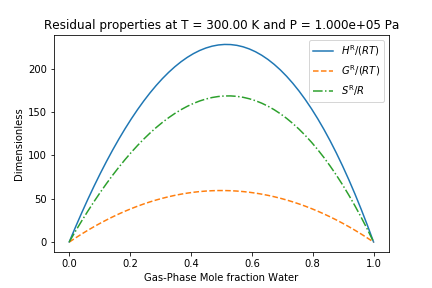
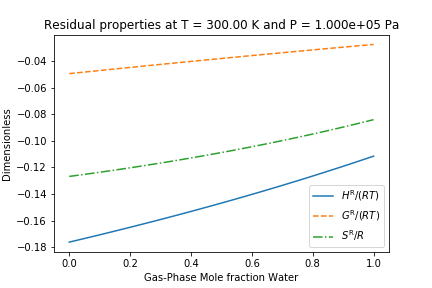
Fix sign error in binary second virial.py
- add test to confirm correct

diff --git a/scithermo/eos/virial.py b/scithermo/eos/virial.py
@@ -43,6 +43,12 @@ class Virial:
             self.B0_expr(T_r) + w*self.B1_expr(T_r)
         )
 
+    def ln_hat_phi_i_expr(self, *args):
+        raise NotImplementedError
+
+    def hat_phi_i_expr(self, *args):
+        return self.exp(self.ln_hat_phi_i_expr(*args))
+
 
 class SecondVirial(CriticalConstants, Virial):
     """Virial equation of state for one component. See :cite:`Perry,Smith2005`
@@ -105,6 +111,9 @@ class SecondVirial(CriticalConstants, Virial):
     def ln_hat_phi_i_expr(self, P, T):
         r"""logarithm of fugacity coefficient
 
+        .. note::
+            single-component version
+
         .. math::
             \ln\hat{\phi}_i = \frac{PB}{RT}
 
@@ -115,9 +124,6 @@ class SecondVirial(CriticalConstants, Virial):
         """
         T_r = T / self.T_c
         return P*self.B_expr(T_r, self.w, self.T_c, self.P_c)/self.R/T
-
-    def hat_phi_i_expr(self, *args):
-        return self.log(self.ln_hat_phi_i_expr(*args))
 
     def calc_Z_from_units(self, P, T):
         return 1. + self.B_expr(T/self.T_c, self.w, self.T_c, self.P_c)*P/self.R/T
@@ -159,7 +165,7 @@ class BinarySecondVirial(CriticalConstants, Virial):
     .. math::
         \begin{align}
             w_{ij} &= \frac{w_i + w_j}{2} \\
-            T_{\mathrm{c},ij} &= \sqrt{T_{\mathrm{c},c1}T_{\mathrm{c},c2}}(1-k_{ij}) :label:eq_Tcij\\
+            T_{\mathrm{c},ij} &= \sqrt{T_{\mathrm{c},i}T_{\mathrm{c},j}}(1-k_{ij}) :label:eq_Tcij\\
             P_{\mathrm{c},ij} &= \frac{Z_{\mathrm{c},ij}RT_{\mathrm{c},ij}}{V_{\mathrm{c},ij}} \\
         \end{align}
 
@@ -167,11 +173,11 @@ class BinarySecondVirial(CriticalConstants, Virial):
 
     .. math::
         \begin{align}
-            Z_{\mathrm{c},ij} &= \frac{Z_{\mathrm{c},c1} + Z_{\mathrm{c},c2}}{2} \\\
-            V_{\mathrm{c},ij} &= \left(\frac{V_{\mathrm{c},c1}^{1/3} + V_{\mathrm{c},c2}^{1/3}}{2}\right)^{3}
+            Z_{\mathrm{c},ij} &= \frac{Z_{\mathrm{c},i} + Z_{\mathrm{c},j}}{2} \\\
+            V_{\mathrm{c},ij} &= \left(\frac{V_{\mathrm{c},i}^{1/3} + V_{\mathrm{c},j}^{1/3}}{2}\right)^{3}
         \end{align}
 
-    :param k_ij: equation of state mixing rule in calculation of critical temperautre, see Equation :eq:`eq_Tcij`. When :math:`c1=c2` and for chemical similar species, :math:`k_{ij}=0`. Otherwise, it is a small (usually) positive number evaluated from minimal :math:`PVT` data or, in the absence of data, set equal to zero.
+    :param k_ij: equation of state mixing rule in calculation of critical temperautre, see Equation :eq:`eq_Tcij`. When :math:`i=j` and for chemical similar species, :math:`k_{ij}=0`. Otherwise, it is a small (usually) positive number evaluated from minimal :math:`PVT` data or, in the absence of data, set equal to zero.
     :type k_ij: float
     :param cas_pairs: pairs of cas registry numbers, derived from cas_numbers calculated
     :type cas_pairs: list(tuple(str))
@@ -191,22 +197,22 @@ class BinarySecondVirial(CriticalConstants, Virial):
             i_kwargs = {}
         if j_kwargs is None:
             j_kwargs = {}
-        self.c1 = CriticalConstants(**i_kwargs)
-        self.c2 = CriticalConstants(**j_kwargs)
+        self.i = CriticalConstants(**i_kwargs)
+        self.j = CriticalConstants(**j_kwargs)
         Virial.__init__(self, pow)
-        assert self.c1.cas_number != self.c2.cas_number, 'Errors anticipated when cas numbers are equal if other properties are not'
+        assert self.i.cas_number != self.j.cas_number, 'Errors anticipated when cas numbers are equal if other properties are not'
 
         self.k_ij = k_ij
-        self.w_ij = (self.c1.w + self.c2.w) / 2.
-        self.T_c_ij = pow(self.c1.T_c * self.c2.T_c, 0.5) * (1. - self.k_ij)
-        self.Z_c_ij = (self.c1.Z_c + self.c2.Z_c) / 2.
+        self.w_ij = (self.i.w + self.j.w) / 2.
+        self.T_c_ij = pow(self.i.T_c * self.j.T_c, 0.5) * (1. - self.k_ij)
+        self.Z_c_ij = (self.i.Z_c + self.j.Z_c) / 2.
         self.V_c_ij = pow(
-            (pow(self.c1.V_c, 1 / 3) + pow(self.c2.V_c, 1 / 3)) / 2., 3
+            (pow(self.i.V_c, 1 / 3) + pow(self.j.V_c, 1 / 3)) / 2., 3
         )
         self.P_c_ij = self.Z_c_ij*self.R*self.T_c_ij/self.V_c_ij
         self.other_cas = {
-            self.c1.cas_number: self.c2.cas_number,
-            self.c2.cas_number: self.c1.cas_number,
+            self.i.cas_number: self.j.cas_number,
+            self.j.cas_number: self.i.cas_number,
         }
         self.cas_pairs = []
         for x in self.other_cas.keys():
@@ -214,23 +220,23 @@ class BinarySecondVirial(CriticalConstants, Virial):
                 self.cas_pairs.append((x, y))
 
     def get_w_Tc_Pc(self, cas_i, cas_j=None):
-        """Returns critical constants for calculation based off of whetner c1 = c2 or not
+        """Returns critical constants for calculation based off of whetner i = j or not
 
         :returns: (:math:`w`, :math:`T_c`, :math:`P_c`)
         :rtype: tuple
         """
-        if cas_i == self.c1.cas_number and (cas_i == cas_j or cas_j is None):
-            return self.c1.w, self.c1.T_c, self.c1.P_c
-        if cas_i == self.c2.cas_number and (cas_i == cas_j or cas_j is None):
-            return self.c2.w, self.c2.T_c, self.c2.P_c
+        if cas_i == self.i.cas_number and (cas_i == cas_j or cas_j is None):
+            return self.i.w, self.i.T_c, self.i.P_c
+        if cas_i == self.j.cas_number and (cas_i == cas_j or cas_j is None):
+            return self.j.w, self.j.T_c, self.j.P_c
         if cas_i == self.other_cas[cas_j]:
             return self.w_ij, self.T_c_ij, self.P_c_ij
 
     def B_ij_expr(self, cas_1, cas_2, T):
         r"""
-        Returns :math:`B_{ij}` considering that :code:`c1=c2` or :code:`c1!=c2`
+        Returns :math:`B_{ij}` considering that :code:`i=j` or :code:`i!=j`
 
-        If :code:`c1=c2`, find the component :math:`k` for which :code:`k=c1=c2` (all cas no's equal).
+        If :code:`i=j`, find the component :math:`k` for which :code:`k=i=j` (all cas no's equal).
         Then return :math:`B_{kk}` where
 
         .. math::
@@ -238,7 +244,7 @@ class BinarySecondVirial(CriticalConstants, Virial):
             B^0\left(\frac{T}{T_{\mathrm{c},k}}\right) + \omega_k\left(\frac{T}{T_{\mathrm{c},k}}\right)
             \right]
 
-        Otherwise, if :code:`c1!=c2`, return :math:`B_{ij}`, where
+        Otherwise, if :code:`i!=j`, return :math:`B_{ij}`, where
 
         .. math::
             B_{ij}=\frac{RT_{\mathrm{c},ij}}{P_{\mathrm{c},ij}}\left[
@@ -291,9 +297,9 @@ class BinarySecondVirial(CriticalConstants, Virial):
         :param T: temperature [K]
         :return: :math:`\\delta_{ij}` [m**3/mol]
         """
-        return 2.*self.B_ij_expr(self.c1.cas_number, self.c2.cas_number, T) \
-                - self.B_ij_expr(self.c1.cas_number, self.c1.cas_number, T) \
-                - self.B_ij_expr(self.c2.cas_number, self.c2.cas_number, T)
+        return 2.*self.B_ij_expr(self.i.cas_number, self.j.cas_number, T) \
+                - self.B_ij_expr(self.i.cas_number, self.i.cas_number, T) \
+                - self.B_ij_expr(self.j.cas_number, self.j.cas_number, T)
 
     def ln_hat_phi_i_expr(self, cas_i, y_i, P, T):
         r"""logarithm of fugacity coefficient
@@ -316,9 +322,6 @@ class BinarySecondVirial(CriticalConstants, Virial):
                 self.B_ij_expr(cas_i, cas_i, T) - (1.-y_i)*(1.-y_i)*self.d_ij_expr(T)
         )/self.R/T
 
-    def hat_phi_i_expr(self, *args):
-        return self.exp(self.ln_hat_phi_i_expr(*args))
-
     def fugacity_i_expr(self, cas_i, y_i, P, T):
         r"""Fugacity of component i in mixture :math:`f_i=\hat{\phi}_i y_i P`
 
@@ -334,7 +337,7 @@ class BinarySecondVirial(CriticalConstants, Virial):
         return self.hat_phi_i_expr(cas_i, y_i, P, T) * y_i * P
 
     def bar_GiR_RT(self, *args):
-        r"""Dimensionless residual partial molar free energy of component :math:`c1`
+        r"""Dimensionless residual partial molar free energy of component :math:`i`
 
         .. math::
             \frac{\bar{G}^\mathrm{R}_i}{RT} = \ln\hat{\phi}_i
@@ -356,12 +359,46 @@ class BinarySecondVirial(CriticalConstants, Virial):
 
         :param T: temperature [K]
         """
-        return 2.*self.d_Bij_d_Tr(self.c1.cas_number, self.c2.cas_number, T) \
-               - self.d_Bij_d_Tr(self.c1.cas_number, self.c1.cas_number, T) \
-               - self.d_Bij_d_Tr(self.c2.cas_number, self.c2.cas_number, T)
+        return 2.*self.d_Bij_d_Tr(self.i.cas_number, self.j.cas_number, T) \
+               - self.d_Bij_d_Tr(self.i.cas_number, self.i.cas_number, T) \
+               - self.d_Bij_d_Tr(self.j.cas_number, self.j.cas_number, T)
+
+    def Tstar_d_lnphi_dTstar(self, cas_i, y_i, P, T):
+        r"""Returns
+
+        .. math::
+            \begin{align}
+                T^\star \frac{\partial \ln{\hat{\phi}_i}}{\partial T^\star}
+                    &=  \frac{T T_\text{ref}}{T_\text{ref}}\frac{\partial \ln{\hat{\phi}_i}}{\partial T}
+                    = \frac{T}{T_\text{c}}\frac{\partial \ln{\hat{\phi}_i}}{\partial T_\text{r}} \\
+                &= \frac{T}{T_\text{c}}\left[
+                                        \frac{P}{RT}\left(
+                                            \frac{\partial B_{ii}}{\partial T_r} + (1-y_i)^2\frac{\partial \delta_{ij}}{\partial T_r}
+                                            \right)
+                                        - \frac{T_c\ln\hat{\phi}_i}{T}
+                \right] \\
+                &= \frac{P}{R T_\text{c}}\left(
+                                            \frac{\partial B_{ii}}{\partial T_r} + (1-y_i)^2\frac{\partial \delta_{ij}}{\partial T_r}
+                                            \right)
+                                        - \ln\hat{\phi}_i \\
+                &= -\frac{\bar{H}_i^\text{R}}{RT}
+            \end{align}
+
+        where :math:`\frac{\partial \delta_{ij}}{\partial T_r}` is given by :eq:`eq_d_dij`
+
+        :param cas_i: cas number for component of interest
+        :type cas_i: str
+        :param y_i: mole fraction of component of interest
+        :type y_i: float
+        :param P: pressure in Pa
+        :type P: float
+        :param T: temperature in K
+        :type T: float
+        """
+        return -self.bar_HiR_RT(cas_i, y_i, P, T)
 
     def bar_HiR_RT(self, cas_i, y_i, P, T):
-        r"""Dimensionless residual partial molar enthalpy of component :math:`c1`
+        r"""Dimensionless residual partial molar enthalpy of component :math:`i`
 
         .. math::
             \begin{align}
@@ -379,7 +416,7 @@ class BinarySecondVirial(CriticalConstants, Virial):
         so that we obtain
 
         .. math::
-            \frac{\bar{H}^\mathrm{R}_i}{RT} = \frac{P}{RT_c}\left[
+            \frac{\bar{H}^\mathrm{R}_i}{RT} = -\frac{P}{RT_c}\left[
                         \frac{\partial B_{ii}}{\partial T_r} + (1-y_i)^2\frac{\partial \delta_{ij}}{\partial T_r}
                                             \right]
                                         + \ln\hat{\phi}_i
@@ -395,10 +432,10 @@ class BinarySecondVirial(CriticalConstants, Virial):
         :type T: float
         """
         w, T_c, P_c = self.get_w_Tc_Pc(cas_i)
-        return P/self.R/T_c*(self.d_Bij_d_Tr(cas_i, cas_i, T) + (1.-y_i)*(1.-y_i)*self.d_dij_d_Tr(T)) + self.ln_hat_phi_i_expr(cas_i, y_i, P, T)
+        return -P/self.R/T_c*(self.d_Bij_d_Tr(cas_i, cas_i, T) + (1.-y_i)*(1.-y_i)*self.d_dij_d_Tr(T)) + self.ln_hat_phi_i_expr(cas_i, y_i, P, T)
 
     def bar_SiR_R(self, cas_i, y_i, P, T):
-        r"""Dimensionless residual partial molar entropy of component :math:`c1`
+        r"""Dimensionless residual partial molar entropy of component :math:`i`
 
         Since
 
@@ -416,7 +453,7 @@ class BinarySecondVirial(CriticalConstants, Virial):
         By comparing Equation :eq:`eq_GiR` and :eq:`eq_HiR` it is observed that
 
         .. math::
-            \frac{\bar{S}_i^\mathrm{R}}{R} = \frac{P}{RT_c}\left[
+            \frac{\bar{S}_i^\mathrm{R}}{R} = -\frac{P}{RT_c}\left[
                         \frac{\partial B_{ii}}{\partial T_r} + (1-y_i)^2\frac{\partial \delta_{ij}}{\partial T_r}
                                             \right]
 
@@ -432,7 +469,7 @@ class BinarySecondVirial(CriticalConstants, Virial):
         :type T: float
         """
         w, T_c, P_c = self.get_w_Tc_Pc(cas_i)
-        return P/self.R/T_c*(
+        return -P/self.R/T_c*(
             self.d_Bij_d_Tr(cas_i, cas_i, T) + (1.-y_i)*(1.-y_i)*self.d_dij_d_Tr(T)
         )
 
@@ -469,7 +506,7 @@ class BinarySecondVirial(CriticalConstants, Virial):
         y_j = 1.-y_i
         cas_j = self.other_cas[cas_i]
         return (
-                y_i*method(cas_i, y_i, P, T) + (1.-y_i)*method(cas_j, y_j, P, T)
+                y_i*method(cas_i, y_i, P, T) + y_j*method(cas_j, y_j, P, T)
         )
 
     def S_R_R(self, *args):
@@ -489,12 +526,12 @@ class BinarySecondVirial(CriticalConstants, Virial):
             fig = plt.figure()
             ax = fig.add_subplot(111)
             ax.set_ylabel('Dimensionless')
-            ax.set_xlabel('Gas-Phase Mole fraction %s' % self.c1.compound_name)
+            ax.set_xlabel('Gas-Phase Mole fraction %s' % self.i.compound_name)
 
         y_1 = np.linspace(0., 1.)
-        HR_RT = np.array(list(self.H_R_RT(self.c1.cas_number, i, P, T) for i in y_1))
-        GR_RT = np.array(list(self.G_R_RT(self.c1.cas_number, i, P, T) for i in y_1))
-        SR_R = np.array(list(self.S_R_R(self.c1.cas_number, i, P, T) for i in y_1))
+        HR_RT = np.array(list(self.H_R_RT(self.i.cas_number, i, P, T) for i in y_1))
+        GR_RT = np.array(list(self.G_R_RT(self.i.cas_number, i, P, T) for i in y_1))
+        SR_R = np.array(list(self.S_R_R(self.i.cas_number, i, P, T) for i in y_1))
         ax.plot(y_1, HR_RT, '-', label='$H^\\mathrm{R}/(RT)$')
         ax.plot(y_1, GR_RT, '--', label='$G^\\mathrm{R}/(RT)$')
         ax.plot(y_1, SR_R, '-.', label='$S^\\mathrm{R}/R$')

diff --git a/tests/test_residual_properties.py b/tests/test_residual_properties.py
@@ -1,28 +1,58 @@
 import unittest
 
 from scithermo.eos.cubic import PengRobinson, RedlichKwong, SoaveRedlichKwong
-from scithermo.eos.virial import SecondVirial
+from scithermo.eos.virial import SecondVirial, BinarySecondVirial
 from .test_cp_ig import compounds_to_test
 
 
 class MyTestCase(unittest.TestCase):
 
     def setUp(self) -> None:
-        self.kwargs = dict(T_min_fit=200., T_max_fit=500.)
+        pass
 
     def test_virial(self):
         T = 300.
         P = 1e5
         for i in compounds_to_test:
-            I = SecondVirial(compound_name=i, pow=pow, **self.kwargs)
+            I = SecondVirial(compound_name=i, pow=pow)
             self.assertAlmostEqual(I.G_R_RT_expr(P, T), I.H_R_RT_expr(P, T)-I.S_R_R_expr(P, T))
+
+    def test_binary_virial(self):
+        r"""For binary virial, test that
+
+        .. math::
+            \frac{G^\text{R}}{RT} = \frac{H^\text{R}}{RT} - \frac{S^\text{R}}{R}
+
+        and, in the limit of pure components, test that
+        the residual properties calculated by BinarySecondVirial and SecondVirial (the pure comeponent one)
+        are equivalent
+
+        """
+        P, T = 10e5, 250.
+        I = SecondVirial(compound_name='Water')
+        J = SecondVirial(compound_name='Tetrahydrofuran')
+        mixture = BinarySecondVirial(
+            i_kwargs={'compound_name': 'Water'},
+            j_kwargs={'compound_name': 'Tetrahydrofuran'}, k_ij=0.)
+        import numpy as np
+        y_1 = np.linspace(0., 1.)
+        HR_RT = np.array(list(mixture.H_R_RT(mixture.i.cas_number, i, P, T) for i in y_1))
+        GR_RT = np.array(list(mixture.G_R_RT(mixture.i.cas_number, i, P, T) for i in y_1))
+        SR_R = np.array(list(mixture.S_R_R(mixture.i.cas_number, i, P, T) for i in y_1))
+        for g, h, s in zip(GR_RT, HR_RT, SR_R):
+            self.assertAlmostEqual(g, h - s)
+        self.assertAlmostEqual(mixture.H_R_RT(mixture.i.cas_number, 1., P, T), I.H_R_RT_expr(P, T))
+        self.assertAlmostEqual(mixture.G_R_RT(mixture.i.cas_number, 1., P, T), I.G_R_RT_expr(P, T))
+        self.assertAlmostEqual(mixture.S_R_R(mixture.i.cas_number, 1., P, T), I.S_R_R_expr(P, T))
+        self.assertAlmostEqual(mixture.H_R_RT(mixture.j.cas_number, 1., P, T), J.H_R_RT_expr(P, T))
+        self.assertAlmostEqual(mixture.G_R_RT(mixture.j.cas_number, 1., P, T), J.G_R_RT_expr(P, T))
+        self.assertAlmostEqual(mixture.S_R_R(mixture.j.cas_number, 1., P, T), J.S_R_R_expr(P, T))
 
     def test_cubic(self):
         T = 300.
-
         P = 1e5
         for i in compounds_to_test:
-            I = PengRobinson(compound_name=i, **self.kwargs)
+            I = PengRobinson(compound_name=i)
             Z = I.iterate_to_solve_Z(T, P, 'vapor')
             V = Z*I.R*T/P
             self.assertAlmostEqual(I.G_R_RT_expr(P, V, T), I.H_R_RT_expr(P, V, T)-I.S_R_R_expr(P, V, T))
